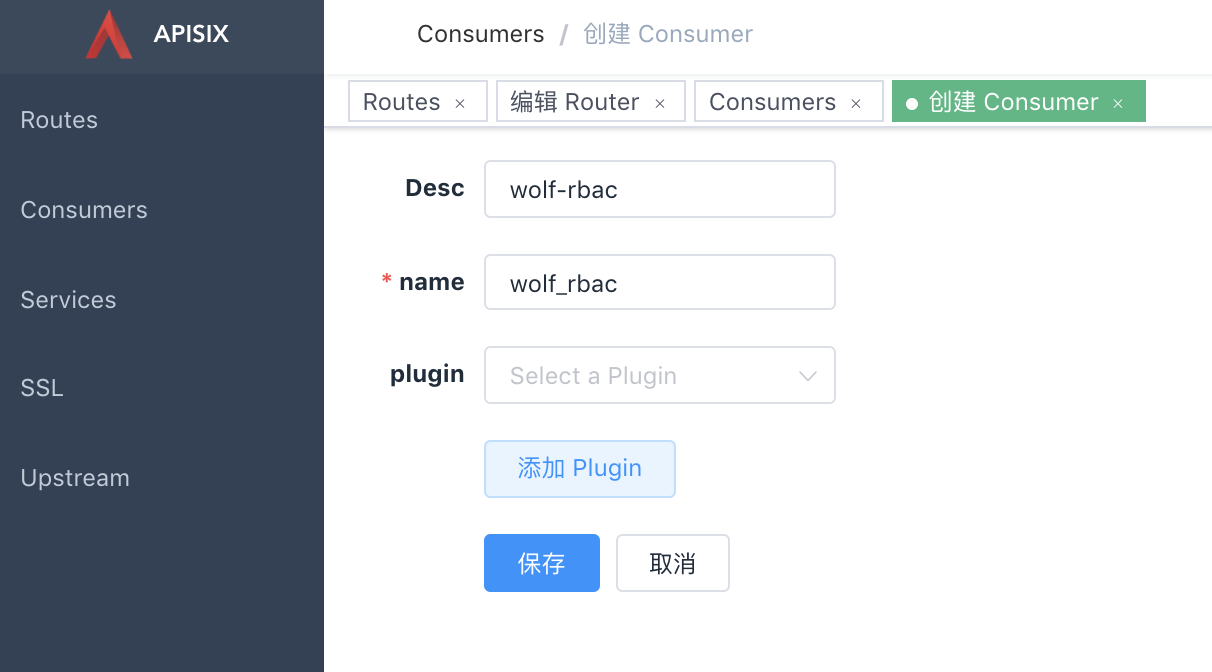
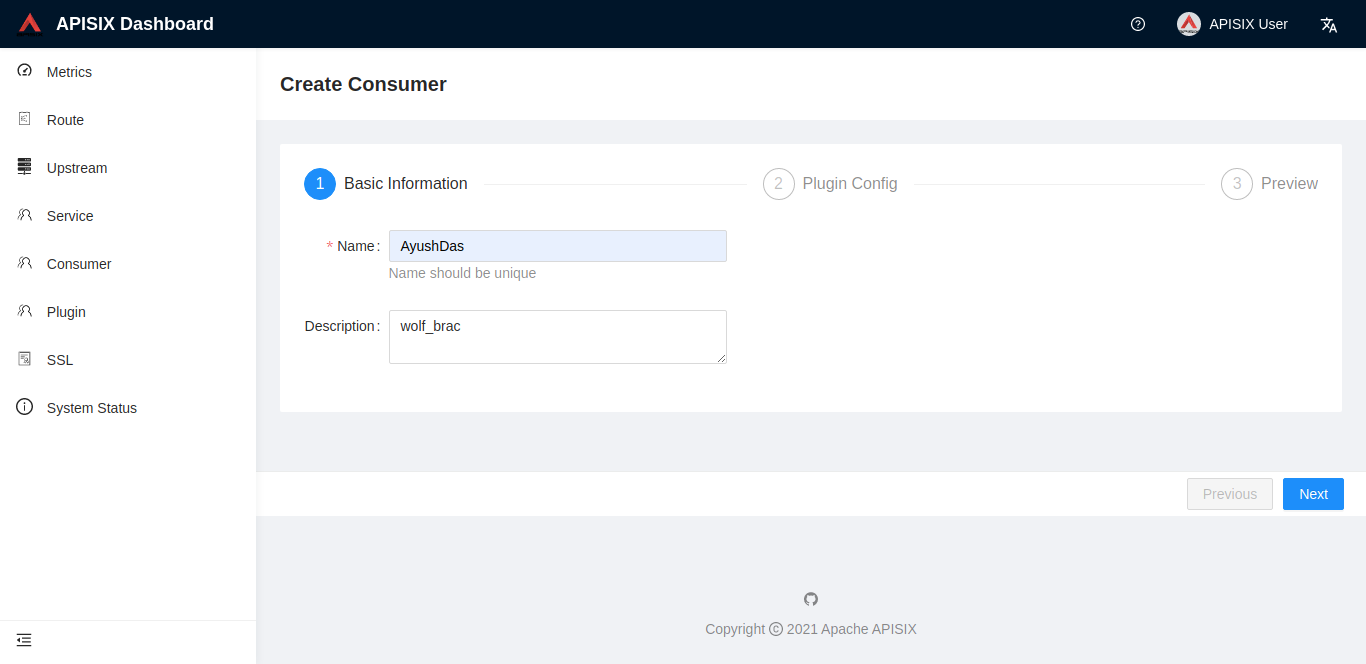
docs: updated remaining screenshots of plugins (#3761)

diff --git a/README.md b/README.md
@@ -40,7 +40,7 @@ The technical architecture of Apache APISIX:
 
 - Mailing List: Mail to dev-subscribe@apisix.apache.org, follow the reply to subscribe the mailing list.
 - QQ Group - 578997126
-- [Slack Workspace](https://join.slack.com/t/the-asf/shared_invite/zt-lcbw4olf-_5s17RLU0Cx8xTvj2bNbjg) - join `#apisix` on our Slack to meet the team and ask questions
+- [Slack Workspace](https://join.slack.com/t/the-asf/shared_invite/zt-mrougyeu-2aG7BnFaV0VnAT9_JIUVaA) - join `#apisix` on our Slack to meet the team and ask questions
 - ![Twitter Follow](https://img.shields.io/twitter/follow/ApacheAPISIX?style=social) - follow and interact with us using hashtag `#ApacheAPISIX`
 - [bilibili video](https://space.bilibili.com/551921247)
 - **Good first issues**:

diff --git a/docs/en/latest/plugins/hmac-auth.md b/docs/en/latest/plugins/hmac-auth.md
@@ -73,6 +73,12 @@ curl http://127.0.0.1:9080/apisix/admin/consumers -H 'X-API-KEY: edd1c9f034335f1
 
 The default `keep_headers` is false and `encode_uri_params` is true.
 
+You can visit the dashboard to complete the above operations through the web interface, first add a consumer:
+![](../../../assets/images/plugin/hmac-auth-1.png)
+
+Then add the hmac-auth plugin to the consumer page:
+![](../../../assets/images/plugin/hmac-auth-2.png)
+
 2. add a Route or add a Service, and enable the `hmac-auth` plugin
 
 ```shell
